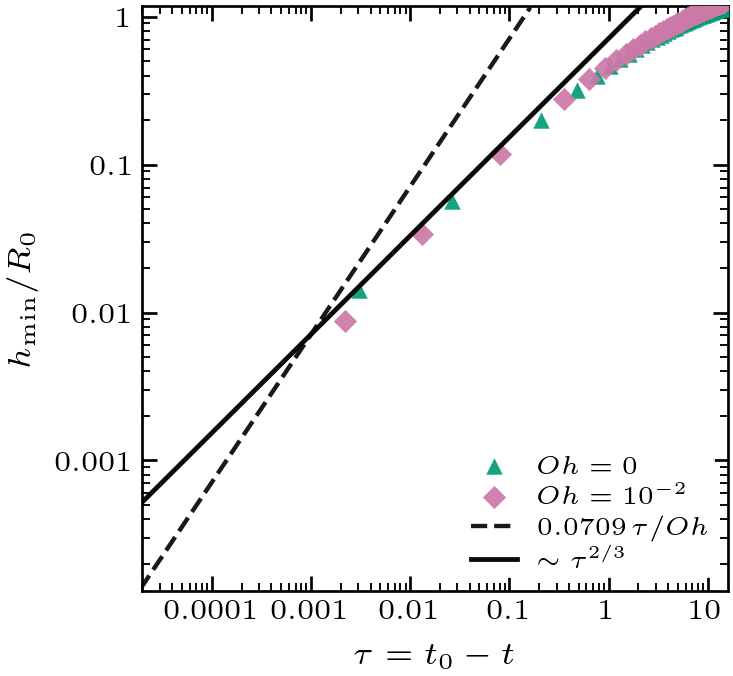
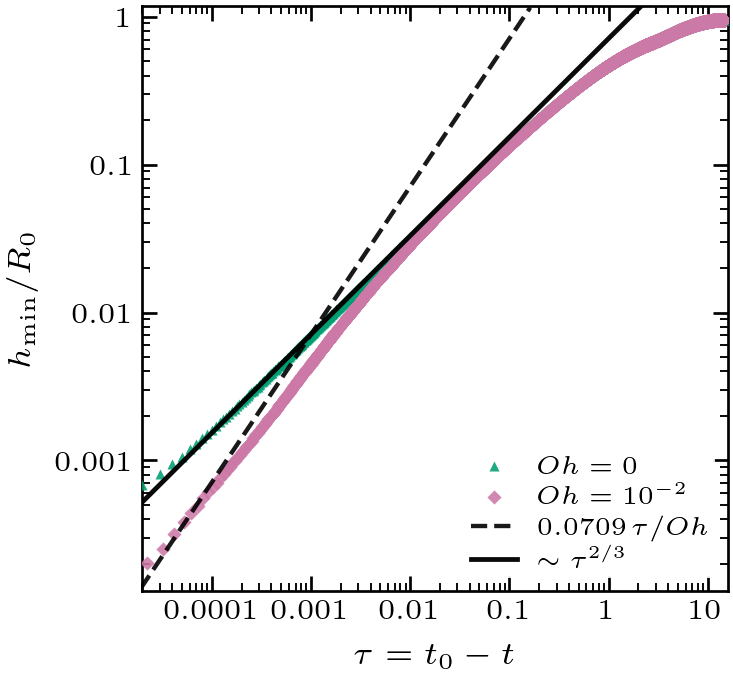
Restore full Figure 3 quantitative data

diff --git a/make_fig3_drop_pinch.py b/make_fig3_drop_pinch.py
@@ -429,16 +429,11 @@ def style_log_axis(ax: plt.Axes) -> None:
     ax.minorticks_on()
 
 
-def sample_fit_points(case: dict[str, object], ykey: str, n: int = 90) -> tuple[np.ndarray, np.ndarray]:
-    tau = np.asarray(case["tau_fit"], dtype=float)
+def positive_curve_points(case: dict[str, object], xkey: str, ykey: str) -> tuple[np.ndarray, np.ndarray]:
+    tau = np.asarray(case[xkey], dtype=float)
     y = np.asarray(case[ykey], dtype=float)
     mask = np.isfinite(tau) & np.isfinite(y) & (tau > 0) & (y > 0)
-    tau = tau[mask]
-    y = y[mask]
-    if tau.size <= n:
-        return tau, y
-    idx = np.unique(np.round(np.linspace(0, tau.size - 1, n)).astype(int))
-    return tau[idx], y[idx]
+    return tau[mask], y[mask]
 
 
 def plot_hmin(ax: plt.Axes, prepared: list[dict[str, object]], show_ylabel: bool = True) -> None:
@@ -460,15 +455,15 @@ def plot_hmin(ax: plt.Axes, prepared: list[dict[str, object]], show_ylabel: bool
 
     scatter_handles = []
     for case in prepared:
-        tau_pts, h_pts = sample_fit_points(case, "h_fit")
+        tau_pts, h_pts = positive_curve_points(case, "tau", "h")
         handle = ax.scatter(
             tau_pts,
             h_pts,
-            s=15.5,
+            s=5.8,
             c=case["colour"],
             marker=case["marker"],
             linewidths=0.0,
-            alpha=0.92,
+            alpha=0.88,
             label=case["label"],
             zorder=4,
         )
@@ -504,12 +499,14 @@ def plot_dhdt(ax: plt.Axes, prepared: list[dict[str, object]], show_ylabel: bool
     xmax = max(float(np.max(case["tau_fit"])) for case in prepared) * 1.10
     all_d = []
     for case in prepared:
-        mask = (case["tau_fit"] >= xmin) & np.isfinite(case["dhdt_fit"]) & (case["dhdt_fit"] > 0)
-        all_d.append(case["dhdt_fit"][mask])
+        tau_rate = case["tau"] if "dhdt_fit_raw_tau" in case else case["tau_fit"]
+        d_rate = case["dhdt_fit_raw_tau"] if "dhdt_fit_raw_tau" in case else case["dhdt_fit"]
+        mask = (tau_rate >= xmin) & np.isfinite(d_rate) & (d_rate > 0)
+        all_d.append(d_rate[mask])
 
     yvals = np.concatenate(all_d)
     ymin = max(float(np.percentile(yvals, 0.1)) * 0.60, 1e-3)
-    ymax = float(np.percentile(yvals, 99.8)) * 1.80
+    ymax = float(yvals.max()) * 1.10
     xguide = np.logspace(math.floor(math.log10(xmin)), math.ceil(math.log10(xmax)), 400)
 
     a23, _ = fit_two_thirds(prepared)
@@ -520,16 +517,18 @@ def plot_dhdt(ax: plt.Axes, prepared: list[dict[str, object]], show_ylabel: bool
 
     scatter_handles = []
     for case in prepared:
-        tau_pts, d_pts = sample_fit_points(case, "dhdt_fit")
+        rate_key = "dhdt_fit_raw_tau" if "dhdt_fit_raw_tau" in case else "dhdt_fit"
+        tau_key = "tau" if rate_key == "dhdt_fit_raw_tau" else "tau_fit"
+        tau_pts, d_pts = positive_curve_points(case, tau_key, rate_key)
         mask_pts = tau_pts >= xmin
         handle = ax.scatter(
             tau_pts[mask_pts],
             d_pts[mask_pts],
-            s=15.5,
+            s=5.8,
             c=case["colour"],
             marker=case["marker"],
             linewidths=0.0,
-            alpha=0.92,
+            alpha=0.88,
             label=case["label"],
             zorder=3,
         )

diff --git a/fig3_drop_pinch/README.md b/fig3_drop_pinch/README.md
@@ -11,11 +11,12 @@ This folder contains the source assets for `../fig3_drop_pinch.pdf`.
   subpanels used in row 2.
 - `data/fig3_l16_hmin_dhdt.csv` is reduced plotting data. The thinning-rate
   column is the analytic derivative of fits through `h_min(t)`, not a
-  finite-difference derivative of the raw log. Both plotted cases use SciPy
-  smoothing splines of the residual around their limiting asymptotes: `Oh=0`
-  tends to `A tau^(2/3)` as `tau -> 0`, with `A` inferred from the original
-  data, and `Oh=10^{-2}` tends to `(0.0709/Oh) tau`. The full Basilisk dump
-  binaries are intentionally not stored here.
+  finite-difference derivative of the raw log. The quantitative panels plot the
+  full reduced arrays stored here, without display subsampling. Both plotted
+  cases use SciPy smoothing splines of the residual around their limiting
+  asymptotes: `Oh=0` tends to `A tau^(2/3)` as `tau -> 0`, with `A` inferred
+  from the original data, and `Oh=10^{-2}` tends to `(0.0709/Oh) tau`. The full
+  Basilisk dump binaries are intentionally not stored here.
 
 Regenerate with:
 